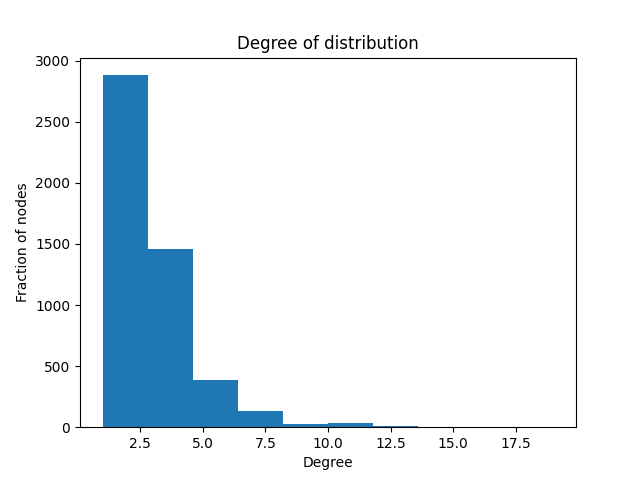
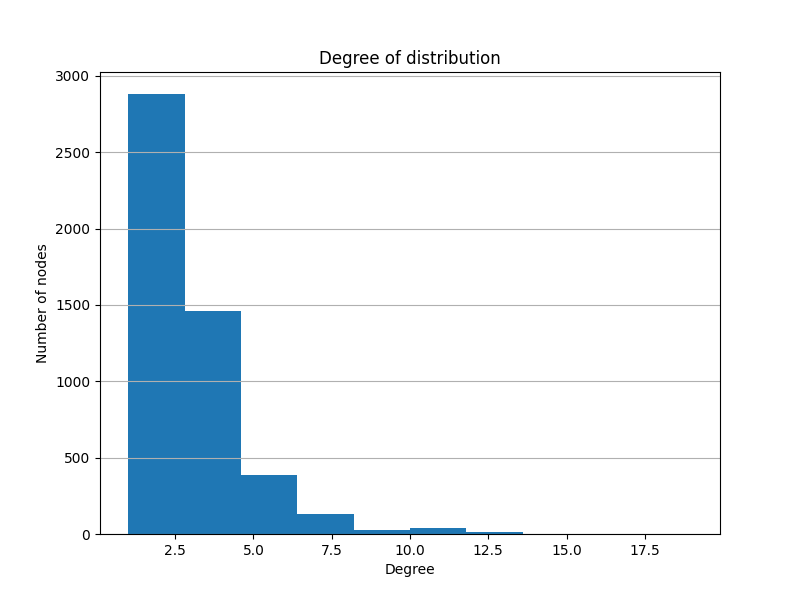
adjusted all graphs + more details

diff --git a/template.py b/template.py
@@ -1,4 +1,6 @@
 import sys
+
+import matplotlib.pyplot as plt
 import pandas as pd
 from template_utils import *
 
@@ -8,7 +10,7 @@ sys.setrecursionlimit(6000)
 # Undirected graph
 # Task 1: Average degree, number of bridges, number of local bridges
 def Q1(dataframe):
-    # ------------ 1.1 ------------#
+    # 1.1
     # Average degree = Sum adjacency / Nbr nodes
 
     # create set for adjacency
@@ -25,25 +27,25 @@ def Q1(dataframe):
     # average degree
     avg_degree = sum_adjacency / n_nodes
 
+    #-------------------------------------#
     # plot => https://mathinsight.org/degree_distribution
     n_adjacency = [len(set_adjacency[node]) for node in set_adjacency]
-    plt.figure(1)
+    plt.figure(figsize=(8, 6))
     plt.hist(n_adjacency)
+    plt.grid(axis='y')
     plt.title("Degree of distribution")
     plt.xlabel("Degree")
-    plt.ylabel("Fraction of nodes")
+    plt.ylabel("Number of nodes")
     # plt.savefig("degree_of_distribution.png")
-    # plt.show()
-    ###############################
+    #-------------------------------------#
 
-    # ------------ 1.2 ------------#
+    # 1.2
     nbr_bridges = find_bridges(dataframe)
     # print("nbr de bridge:", nbr_bridges)
-    ###############################
 
-    # ------------ 1.3 ------------#
+    # 1.3
     # TODO
-    ###############################
+
     return [avg_degree, nbr_bridges, 0]  # [average degree, nb bridges, nb local bridges]
 
 
@@ -61,22 +63,24 @@ def Q2(dataframe):
         # calculate similarity score for each pair of node
         similarities.append(similarity(set_adjacency, A, B))
 
-    # plot percentage
+    #-------------------------------------#
+    # plot
     # turn list of scores into cumulative one : https://stackoverflow.com/questions/15889131/how-to-find-the-cumulative-sum-of-numbers-in-a-list
     cumulative_sum = np.cumsum(sorted(similarities))
     cumulative_percentage = (cumulative_sum / sum(similarities)) * 100
     # print(sorted(similarities))
     # print(cumulative_percentage)
 
-    plt.figure(2)
+    plt.figure(figsize=(8, 6))
     plt.plot(sorted(similarities), cumulative_percentage)  # percentage of edges vs similarity score
+    plt.xlim(0)
+    plt.ylim((0, 100))
+    plt.grid()
     plt.title("Cumulative graph of the percentage of edges vs their similarity score")
     plt.xlabel("Similarity score")
     plt.ylabel("Cumulative percentage of edges")
     # plt.savefig("cumulative_graph_of_similarity_score.png")
-    # plt.show()
-
-    ###############################
+    #-------------------------------------#
     # compute average similarity score for the network
     return np.sum(similarities) / len(similarities)
 
@@ -111,25 +115,31 @@ def Q4(dataframe):
     for big_dict in shortest_paths.values():
         for values in big_dict.values(): path_lengths.append(values)
 
-    # get diameter
+    # return number of each length of shortest paths
+    ret = [path_lengths.count(length) for length in range(np.max(path_lengths)+1)]
+
+
+    # diameter and most common shortest distance
     diameter = np.max(path_lengths)
     # print(diameter) # 46
-
-    # return number of each length of shortest paths
-    ret = [path_lengths.count(length) for length in range(diameter+1)]
+    commonest_dist = ret.index(np.max(ret))
+    # print(commonest_dist) # 19
 
     #-------------------------------------#
     # plot => LINFO1115-course1.pdf, pg 34
-    plt.figure(3)
+    plt.figure(figsize=(8, 6))
     x = np.arange(0, diameter+1)
-    plt.scatter(x, ret)
-    plt.plot(x, ret)
+    plt.plot(x, ret, '-bo', markersize=5)
+    plt.plot(commonest_dist, ret[commonest_dist], 'go', markersize=5, label="Most common shortest distance")
+    plt.plot(diameter, ret[diameter], 'ro', markersize=5, label="Longest shortest distance")
+    plt.xlim(0)
     plt.ylim(0)
+    plt.legend()
+    plt.grid()
     plt.title("Graph of the number of paths having a given distance")
     plt.xlabel("Number of intermediaries")
-    plt.ylabel("Number of chains")
+    plt.ylabel("Number of paths")
     # plt.savefig("small-world_phenomenon.png")
-    # plt.show()
     #-------------------------------------#
     return ret  # ret[0] = nbr shortest paths of length 0, ret[1] = nbr shortest paths of length 1, ...
     # Note that we will ignore the value at index 0 as it can be set to 0 or the number of nodes in the graph
@@ -138,7 +148,7 @@ def Q4(dataframe):
 # Undirected graph
 # Task 5: Betweenness centrality
 def Q5(dataframe):
-    # Your code here
+    # TODO
     return [0, 0.0]  # the id of the node with the highest betweenness centrality, the associated betweenness centrality value.
 
 
@@ -146,9 +156,10 @@ def Q5(dataframe):
 
 df = pd.read_csv('powergrid.csv')
 # df = pd.read_csv('testgrid.csv')
-# draw_graph(df)
 print("Q1", Q1(df))
 print("Q2", Q2(df))
 print("Q3", Q3(df))
 print("Q4", Q4(df))
 print("Q5", Q5(df))
+# draw_graph(df)
+# plt.show()
